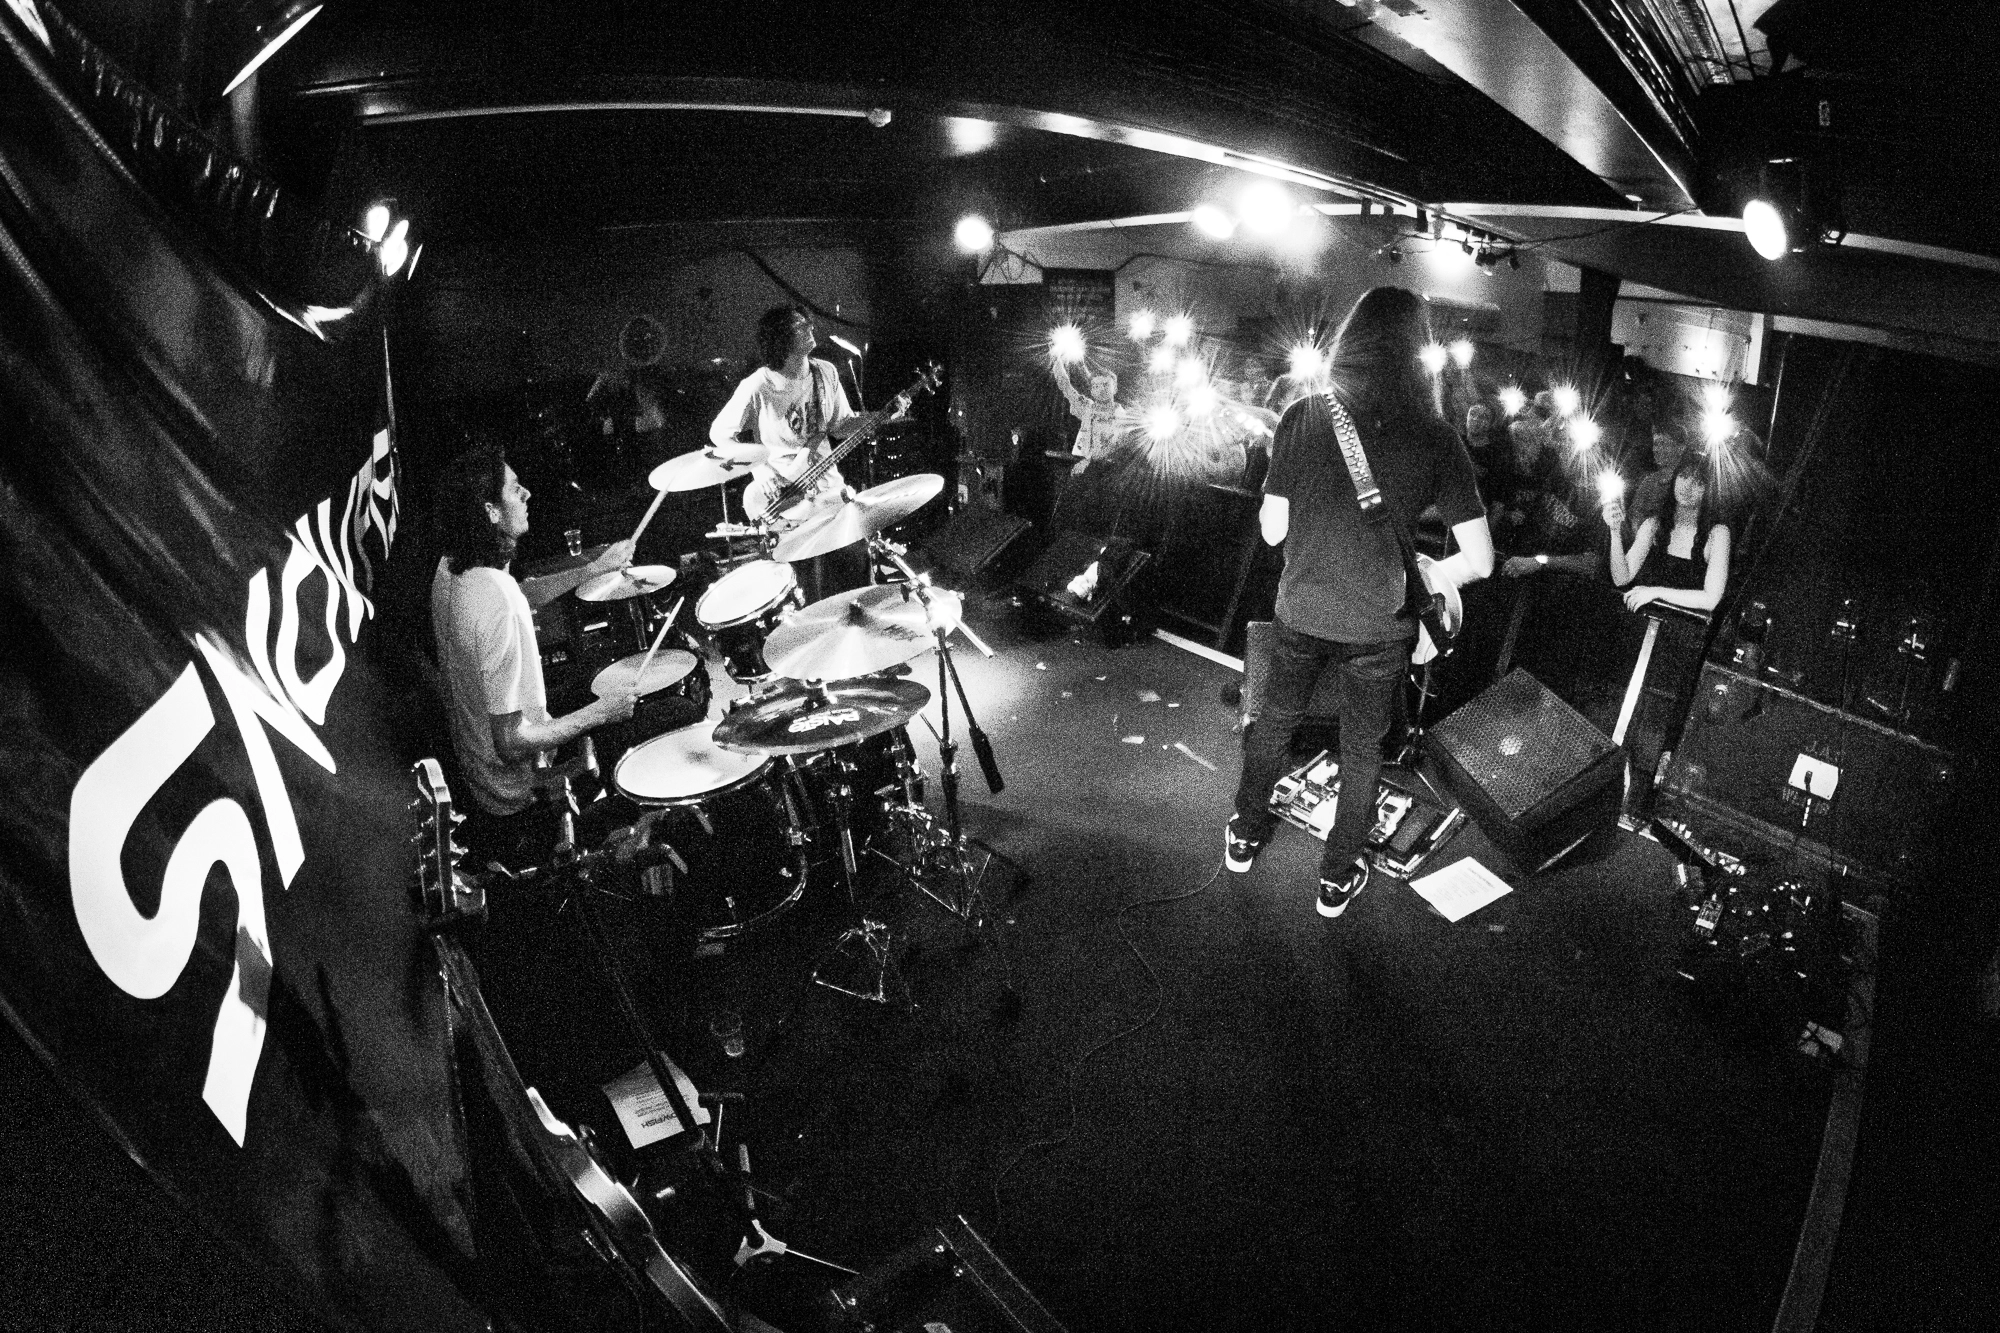
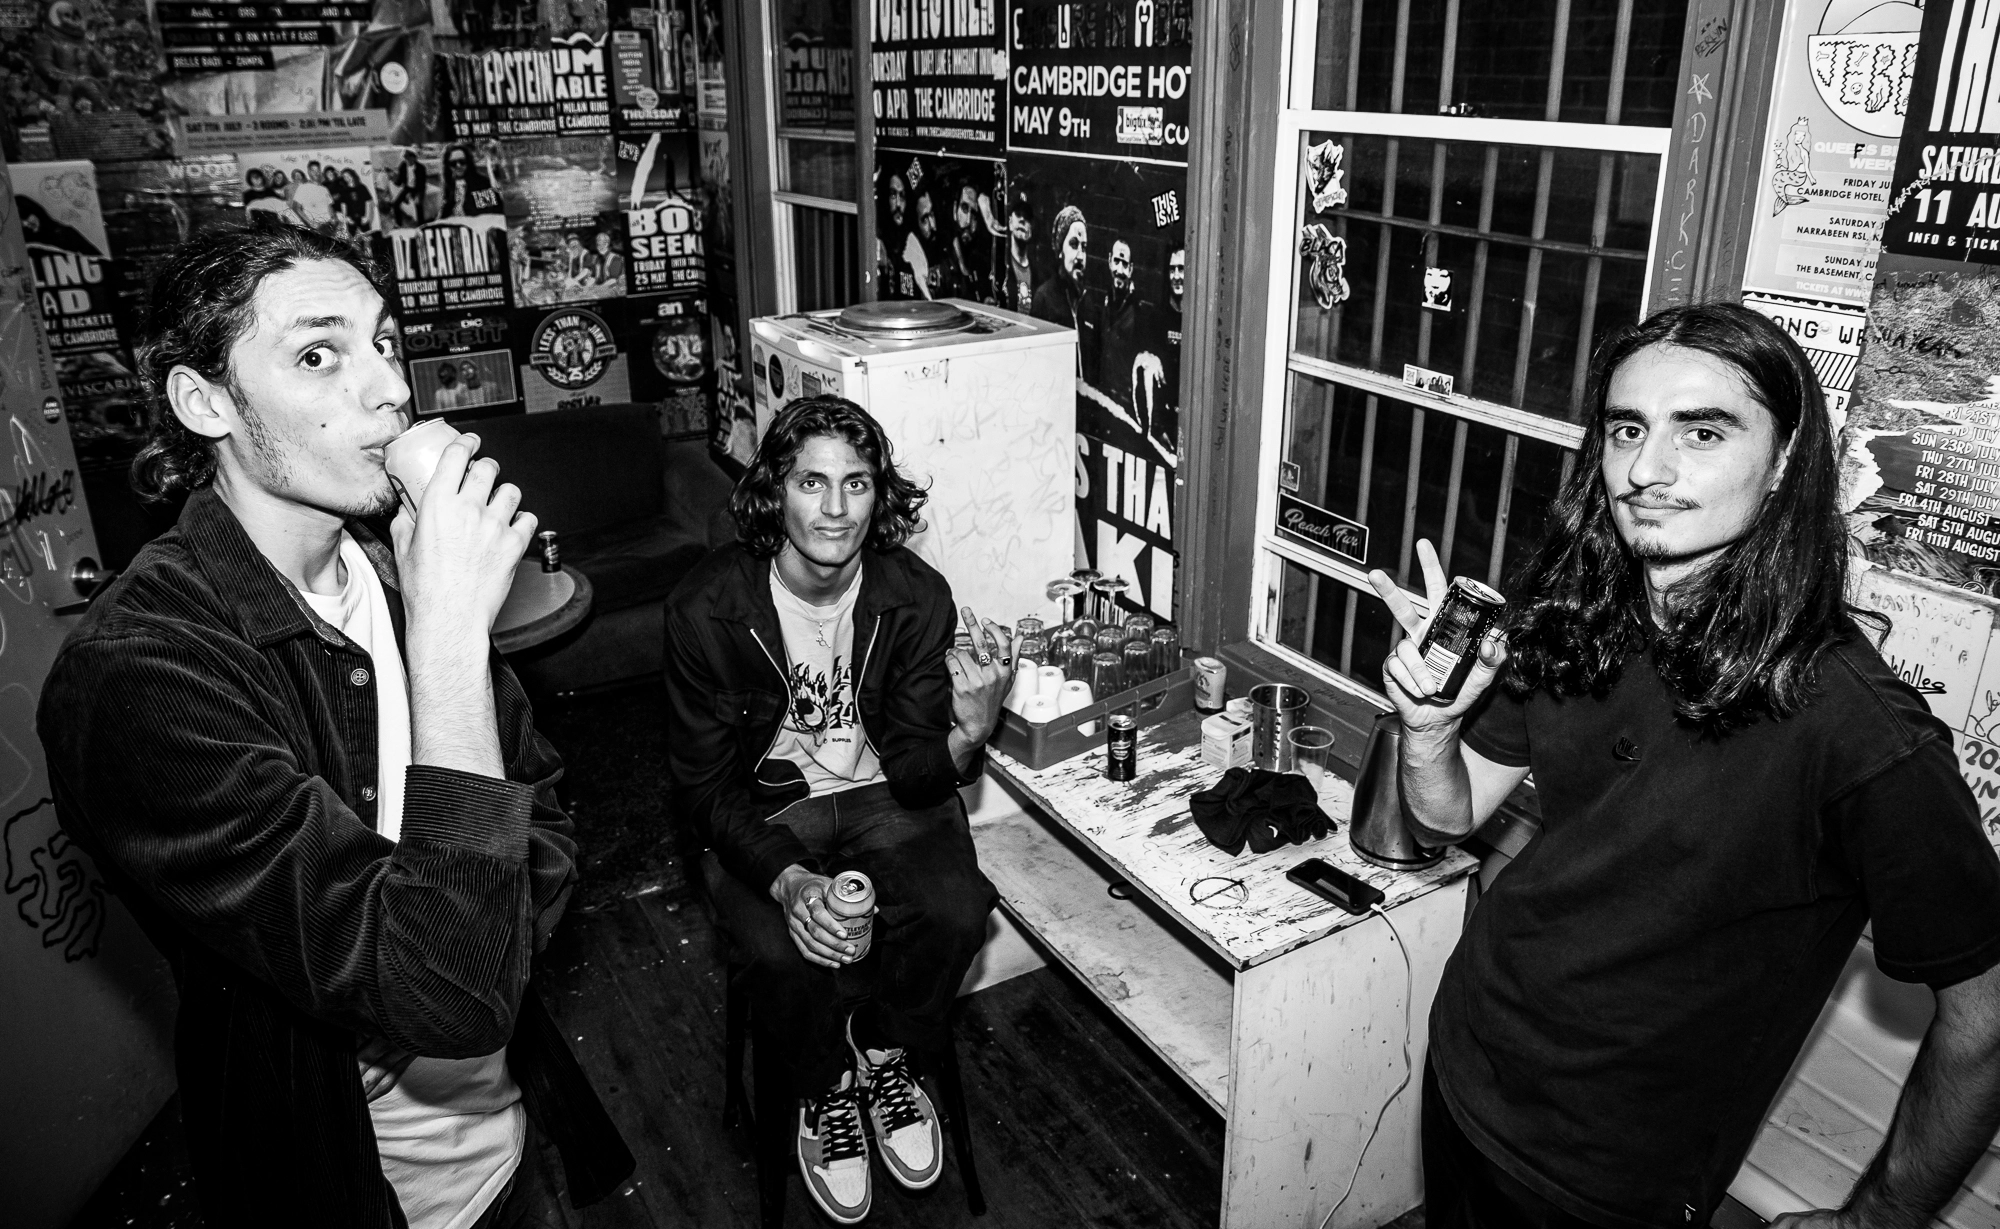
Remove a photo

diff --git a/snowfishapp/templates/photos.html b/snowfishapp/templates/photos.html
@@ -55,9 +55,6 @@
             <div class="carousel-item">
               <img src="{% static 'layout/img/gallery/2022-3.webp' %}" alt="Snowfish 2022 3" class="d-block w-100">
             </div>
-            <div class="carousel-item">
-              <img src="{% static 'layout/img/gallery/2022-4.webp' %}" alt="Snowfish 2022 3" class="d-block w-100">
-            </div>
           </div>
           <button class="carousel-control-prev" type="button" data-bs-target="#carousel-2022" data-bs-slide="prev">
             <span class="carousel-control-prev-icon" aria-hidden="true"></span>
@@ -70,9 +67,11 @@
         </div>
 
         <h2>2021</h2>
+
         <div>
           <img src="{% static 'layout/img/gallery/2021-1.webp' %}" alt="Snowfish in 2021" width="100%">
         </div>
+
         <h2>2019</h2>
 
         <div id="carousel-2019" class="carousel slide" data-bs-ride="carousel" data-bs-interval="false"> <!--turn off automatic cycling-->
